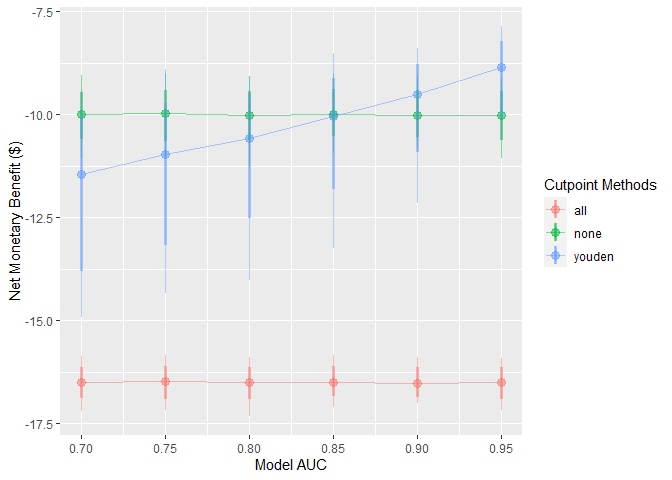
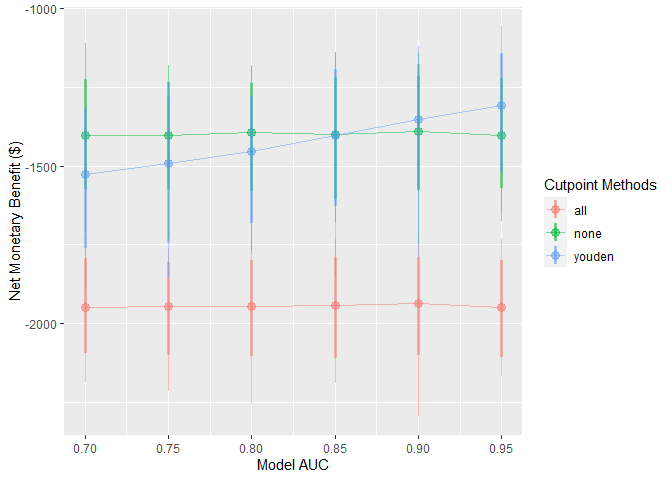
update README to have ce_plot() example

diff --git a/README.md b/README.md
@@ -54,26 +54,46 @@ remotes::install_github("ropensci/predictNMB")
 install.packages("predictNMB", repos = "https://ropensci.r-universe.dev")
 ```
 
-## Estimating model cutpoints
+## Estimating model performance
 
 We must first define a hypothetical NMB associated with each square of a
-confusion matrix (2x2 table). To do this, we create an R function which,
-when run, returns a named vector representing the four NMB values that
-we need. `get_nmb_sampler()` is a `predictNMB` function that makes
-creating the function easier!
+confusion matrix (2\$\$2 table). To do this, we create an R function
+which, when run, returns a named vector representing the four NMB values
+that we need. Since we are using Quality-adjusted life years lost
+(`qalys_lost`) due to the event and a willingness to pay (`wtp`) value
+of \$28,000, this will function will also store some other details so
+that we can create a cost-effectiveness plot later.
+
+`get_nmb_sampler()` is a `predictNMB` function that makes creating the
+function easier! If you create these functions without
+`get_nmb_sampler()`, you can’t make the cost-effectiveness plot but can
+still evaluate in terms of NMB.
+
+Here, we make `NMBsampler` functions for cutpoint selection and
+evaluation separately. These incorporate uncertainty by passing in
+functions that sample values from their underlying distributions. The
+healthcare event leads to about 1 QALY lost, the cost of the treatment
+is about \$800 and the treatment reduces the rate of the event by about
+18%
 
 ``` r
 library(predictNMB)
 
-fx_nmb <- get_nmb_sampler(
-  outcome_cost = 100,
-  high_risk_group_treatment_effect = 0.35,
-  high_risk_group_treatment_cost = 10
+fx_nmb_training <- get_nmb_sampler(
+  wtp = 28033,
+  qalys_lost = function() rnorm(n = 1, 1, 0.05), # about 1
+  high_risk_group_treatment_effect = function() rbeta(n = 1, 200, 900), # about 0.11
+  high_risk_group_treatment_cost = function() rgamma(n = 1, 2400, 3),   # about $800
+  use_expected_values = TRUE
 )
 
-fx_nmb()
-#>   TP   FP   TN   FN 
-#>  -75  -10    0 -100
+
+fx_nmb_evaluation <- get_nmb_sampler(
+  wtp = 28033,
+  qalys_lost = function() rnorm(n = 1, 1, 0.05),
+  high_risk_group_treatment_effect = function() rbeta(n = 1, 200, 900),
+  high_risk_group_treatment_cost = function() rgamma(n = 1, 2400, 3)
+)
 ```
 
 We can then pass this to the simulation function. Required arguments:
@@ -101,8 +121,8 @@ cl <- makeCluster(detectCores())
 
 ``` r
 sim_screen_obj <- screen_simulation_inputs(
-  n_sims = 1000, n_valid = 10000, sim_auc = seq(0.7, 0.95, 0.05), event_rate = 0.1,
-  fx_nmb_training = fx_nmb, fx_nmb_evaluation = fx_nmb,
+  n_sims = 500, n_valid = 10000, sim_auc = seq(0.7, 0.95, 0.05), event_rate = 0.05,
+  fx_nmb_training = fx_nmb_training, fx_nmb_evaluation = fx_nmb_evaluation,
   cutpoint_methods = c("all", "none", "youden"), cl = cl
 )
 ```
@@ -137,7 +157,7 @@ single_sim_obj <- do_nmb_sim(
 ```
 
 ``` r
-single_sim_obj <- sim_screen_obj$simulations[[6]]
+single_sim_obj <- sim_screen_obj$simulations[[5]]
 ```
 
 When plotting a single set of simulation inputs, we see the
@@ -150,6 +170,28 @@ autoplot(single_sim_obj) + theme_sim()
 ```
 
 <img src="man/figures/README-unnamed-chunk-9-1.png" width="100%" />
+
+For this scenario, when the model has an AUC of 0.9, we can see that the
+NMB is best when using the model-guided decisions. However, decision
+makers may want to visualise these on a cost-effectiveness plot which
+shows the health benefit versus the costs. We can do this using the
+`ce_plot()` function, specifying the treat-none option as the reference
+strategy.
+
+``` r
+ce_plot(single_sim_obj, ref_col = "none")
+```
+
+<img src="man/figures/README-unnamed-chunk-10-1.png" width="100%" />
+
+From this plot, we can see that both the treat-all and model-guided
+decision lead to more QALYs than treating nobody (because more patients
+are receiving an effective treatment) but that the treat-all strategy is
+not cost effective according to our cost-effectiveness plane (based on a
+willingness to pay of \$28,033). Based on this, we would conclude that
+the hypothetical model-guided decision support system would be likely to
+be cost-effective should we be able to develop a model with this level
+of discrimination for this specific healthcare problem/context.
 
 ## Citation
 
